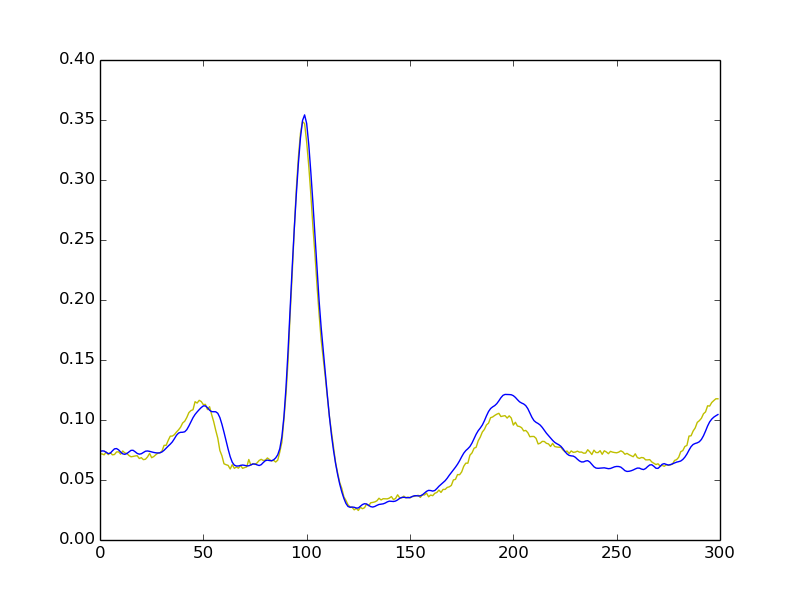
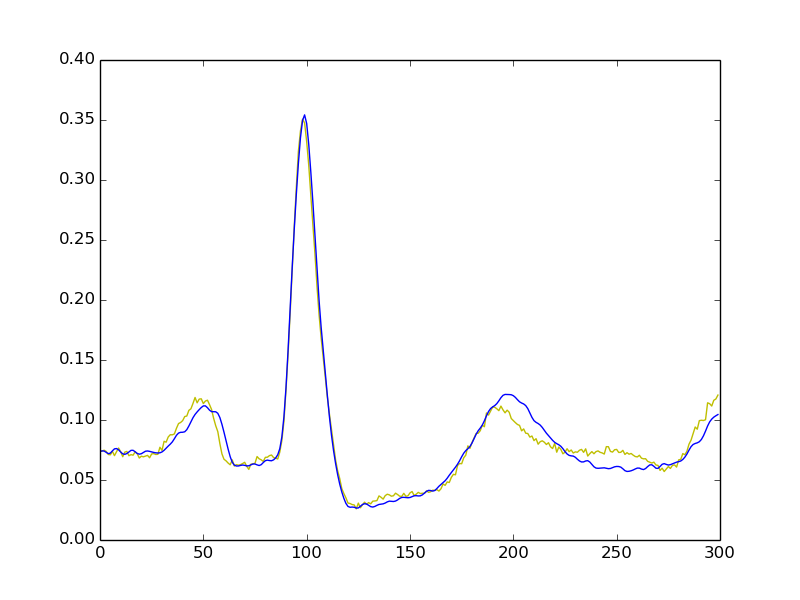
hidden 50 lr 0.1

diff --git a/dA.py b/dA.py
@@ -327,7 +327,7 @@ def test_dA(learning_rate=0.1, training_epochs=200,
         theano_rng=theano_rng,
         input=x,
         n_visible=300,
-        n_hidden=25
+        n_hidden=50
     ) 
 
     cost, updates = da.get_cost_updates(
